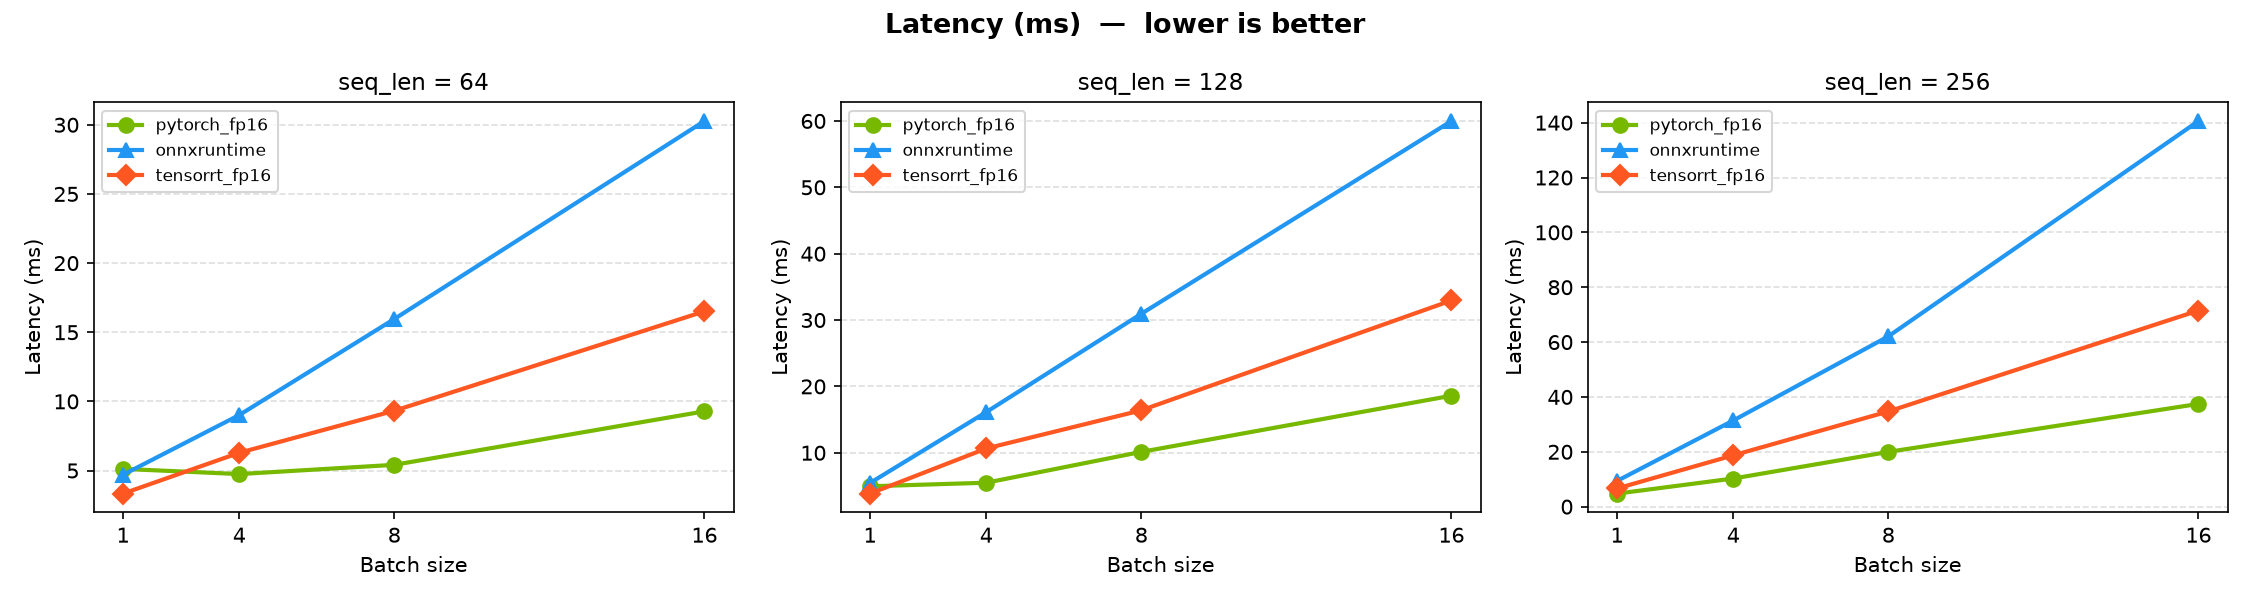
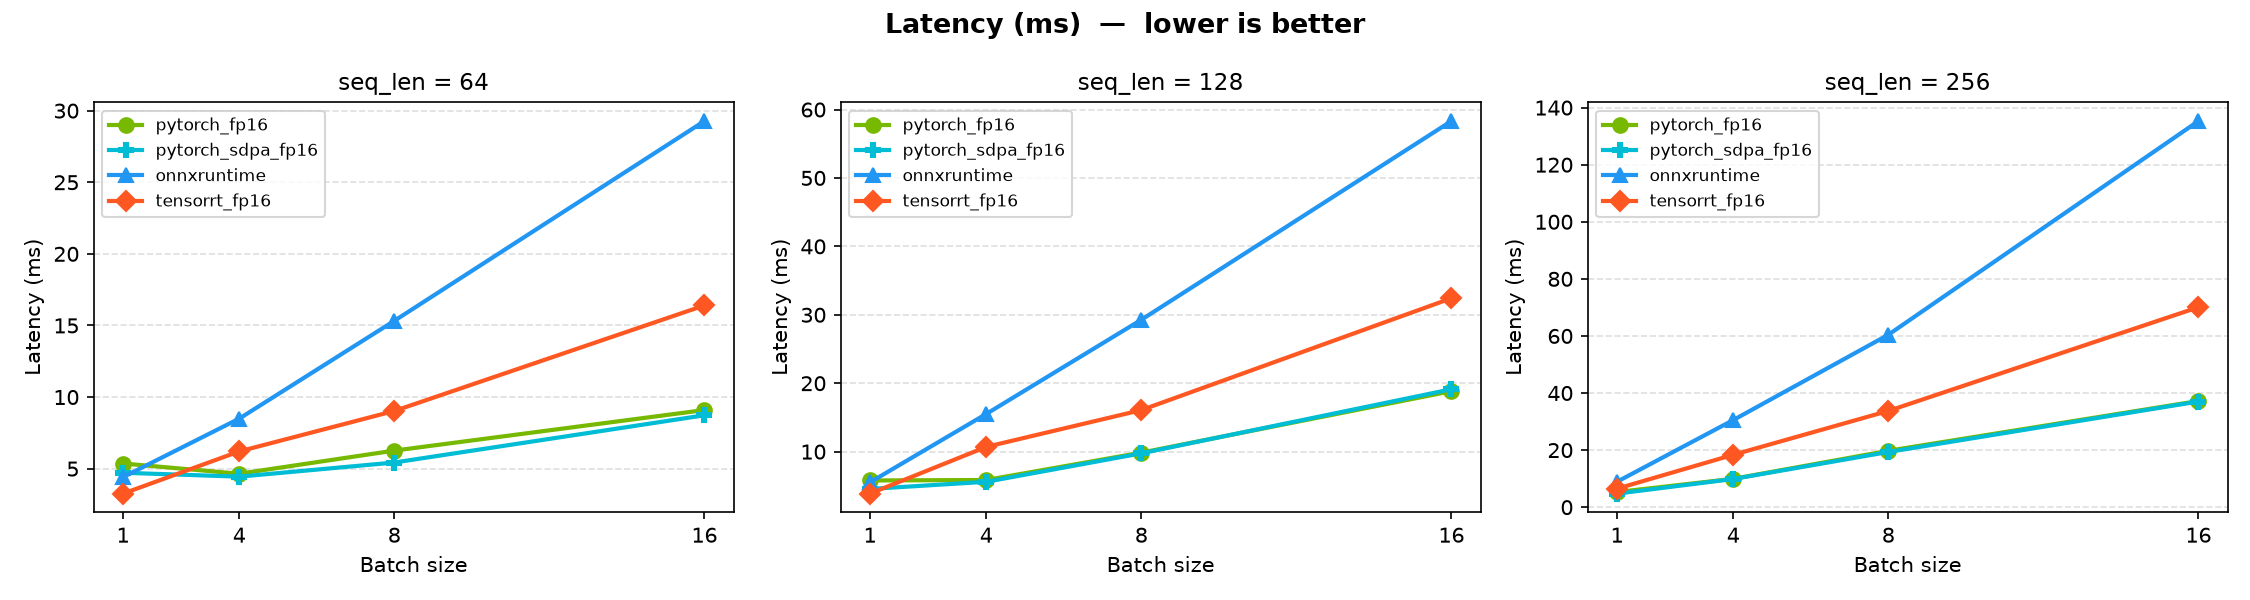
Project 1 - Pytorch SDPA

diff --git a/project-1-llm-inference-optimization/src/bench_pytorch_sdpa.py b/project-1-llm-inference-optimization/src/bench_pytorch_sdpa.py
@@ -1,0 +1,97 @@
+"""PyTorch FP16 + SDPA inference benchmark for GPT-2.
+
+SDPA (Scaled Dot-Product Attention) is enabled via attn_implementation="sdpa".
+On Ada/Ampere hardware PyTorch dispatches to Flash Attention, fusing the full
+QK^T → softmax → V operation into a single memory-efficient kernel rather than
+materialising the intermediate attention matrix.
+"""
+
+from __future__ import annotations
+
+import numpy as np
+import torch
+from transformers import GPT2LMHeadModel
+
+
+def _time_fn(fn, warmup: int, iterations: int) -> np.ndarray:
+    """Return per-iteration GPU latencies (ms) measured with CUDA events."""
+    start_ev = torch.cuda.Event(enable_timing=True)
+    end_ev = torch.cuda.Event(enable_timing=True)
+
+    for _ in range(warmup):
+        fn()
+    torch.cuda.synchronize()
+
+    times = []
+    for _ in range(iterations):
+        start_ev.record()
+        fn()
+        end_ev.record()
+        torch.cuda.synchronize()
+        times.append(start_ev.elapsed_time(end_ev))
+
+    return np.array(times, dtype=np.float32)
+
+
+def benchmark(
+    batch_sizes: list[int] = [1, 4, 8, 16],
+    seq_lens: list[int] = [64, 128, 256],
+    fp16: bool = True,
+    warmup: int = 10,
+    iterations: int = 100,
+) -> list[dict]:
+    device = torch.device("cuda")
+    tag = "pytorch_sdpa_fp16" if fp16 else "pytorch_sdpa_fp32"
+    print(f"Loading GPT-2 [{tag}] …")
+
+    model = GPT2LMHeadModel.from_pretrained(
+        "gpt2",
+        attn_implementation="sdpa",   # routes attention through F.scaled_dot_product_attention
+    ).eval().to(device)
+    if fp16:
+        model = model.half()
+
+    results = []
+
+    for bs in batch_sizes:
+        for seq_len in seq_lens:
+            ids = torch.randint(0, 50257, (bs, seq_len), dtype=torch.long, device=device)
+            mask = torch.ones(bs, seq_len, dtype=torch.long, device=device)
+
+            def fn():
+                with torch.no_grad():
+                    model(input_ids=ids, attention_mask=mask, use_cache=False)
+
+            for _ in range(5):
+                fn()
+            torch.cuda.synchronize()
+            torch.cuda.reset_peak_memory_stats()
+            fn()
+            torch.cuda.synchronize()
+            peak_mem_mb = torch.cuda.max_memory_allocated() / 1024 ** 2
+
+            times = _time_fn(fn, warmup, iterations)
+            mean_ms = float(times.mean())
+            throughput = (bs * seq_len) / (mean_ms / 1_000)
+
+            row = {
+                "backend": tag,
+                "batch_size": bs,
+                "seq_len": seq_len,
+                "latency_ms_mean": round(mean_ms, 3),
+                "latency_ms_std": round(float(times.std()), 3),
+                "latency_ms_p50": round(float(np.percentile(times, 50)), 3),
+                "latency_ms_p95": round(float(np.percentile(times, 95)), 3),
+                "latency_ms_p99": round(float(np.percentile(times, 99)), 3),
+                "throughput_tok_per_sec": round(throughput),
+                "gpu_memory_mb": round(peak_mem_mb, 1),
+            }
+            results.append(row)
+            print(
+                f"  bs={bs:2d}  seq={seq_len:3d} | "
+                f"{mean_ms:7.2f} ms ±{times.std():.2f} | "
+                f"{throughput:>8,.0f} tok/s | "
+                f"{peak_mem_mb:.0f} MB"
+            )
+
+    return results

diff --git a/project-1-llm-inference-optimization/src/plot_results.py b/project-1-llm-inference-optimization/src/plot_results.py
@@ -8,12 +8,21 @@ import matplotlib.pyplot as plt
 import pandas as pd
 
 _BACKEND_COLORS = {
-    "pytorch_fp16":  "#76b900",   # NVIDIA green
-    "pytorch_fp32":  "#a8d86e",
-    "onnxruntime":   "#2196f3",   # blue
-    "tensorrt_fp16": "#ff5722",   # orange-red
+    "pytorch_fp16":      "#76b900",   # NVIDIA green
+    "pytorch_fp32":      "#a8d86e",
+    "pytorch_sdpa_fp16": "#00bcd4",   # cyan
+    "pytorch_sdpa_fp32": "#80deea",
+    "onnxruntime":       "#2196f3",   # blue
+    "tensorrt_fp16":     "#ff5722",   # orange-red
 }
-_MARKERS = {"pytorch_fp16": "o", "pytorch_fp32": "s", "onnxruntime": "^", "tensorrt_fp16": "D"}
+_MARKERS = {
+    "pytorch_fp16":      "o",
+    "pytorch_fp32":      "s",
+    "pytorch_sdpa_fp16": "P",
+    "pytorch_sdpa_fp32": "p",
+    "onnxruntime":       "^",
+    "tensorrt_fp16":     "D",
+}
 
 
 def plot(df: pd.DataFrame, out_dir: str | Path = "results/plots") -> None:

diff --git a/project-1-llm-inference-optimization/src/run_benchmark.py b/project-1-llm-inference-optimization/src/run_benchmark.py
@@ -35,9 +35,9 @@ def parse_args() -> argparse.Namespace:
     p = argparse.ArgumentParser(description="GPT-2 Inference Benchmark")
     p.add_argument(
         "--backends", nargs="+",
-        default=["pytorch", "onnx", "tensorrt"],
-        choices=["pytorch", "onnx", "tensorrt"],
-        help="Which backends to benchmark (default: all three)",
+        default=["pytorch", "pytorch_sdpa", "onnx", "tensorrt"],
+        choices=["pytorch", "pytorch_sdpa", "onnx", "tensorrt"],
+        help="Which backends to benchmark (default: all four)",
     )
     p.add_argument("--batch-sizes", nargs="+", type=int, default=[1, 4, 8, 16])
     p.add_argument("--seq-lens",    nargs="+", type=int, default=[64, 128, 256])
@@ -86,6 +86,13 @@ def main() -> None:
     if "pytorch" in args.backends:
         print("\n=== PyTorch Benchmark ===")
         from bench_pytorch import benchmark
+        all_results.extend(
+            benchmark(args.batch_sizes, args.seq_lens, args.fp16, args.warmup, args.iterations)
+        )
+
+    if "pytorch_sdpa" in args.backends:
+        print("\n=== PyTorch SDPA Benchmark ===")
+        from bench_pytorch_sdpa import benchmark
         all_results.extend(
             benchmark(args.batch_sizes, args.seq_lens, args.fp16, args.warmup, args.iterations)
         )

diff --git a/README.md b/README.md
@@ -30,11 +30,12 @@ source /mnt/c/Users/apoor/Desktop/projects/Nvidia/.venv2/bin/activate
 
 ### [Project 1 — LLM Inference Optimization](project-1-llm-inference-optimization/)
 
-Benchmark GPT-2 (124M) inference across three backends and measure the real-world impact of runtime and precision choices.
+Benchmark GPT-2 (124M) inference across four backends and measure the real-world impact of runtime and precision choices.
 
 | Backend | Precision | Notes |
 |---|---|---|
 | PyTorch | FP16 | Baseline |
+| PyTorch + SDPA | FP16 | Flash Attention via `attn_implementation="sdpa"` |
 | ONNX Runtime | FP16 | CUDAExecutionProvider |
 | TensorRT | FP16 | Compiled engine, dynamic batch |
 

diff --git a/project-1-llm-inference-optimization/README.md b/project-1-llm-inference-optimization/README.md
@@ -28,6 +28,9 @@ Each backend runs a single forward pass (the prefill phase — processing input 
 ### PyTorch FP16
 The reference baseline. GPT-2 loaded from HuggingFace, moved to GPU, and cast to `float16`. Inference runs with `torch.no_grad()` and `use_cache=False` to keep the comparison fair (single forward pass, no KV cache).
 
+### PyTorch FP16 + SDPA
+Same as the baseline but loaded with `attn_implementation="sdpa"`, which routes every attention layer through `torch.nn.functional.scaled_dot_product_attention`. On Ada hardware PyTorch selects Flash Attention, fusing the full QK^T → softmax → V operation into a single memory-efficient kernel. No model export or compilation needed — it's a drop-in swap over the baseline.
+
 ### ONNX Runtime (CUDAExecutionProvider)
 The model is exported to ONNX opset 18 using PyTorch's dynamo-based exporter, then loaded into an ONNX Runtime `InferenceSession` with `CUDAExecutionProvider`. ORT applies its own graph optimizations (op fusion, constant folding) independently of TensorRT.
 